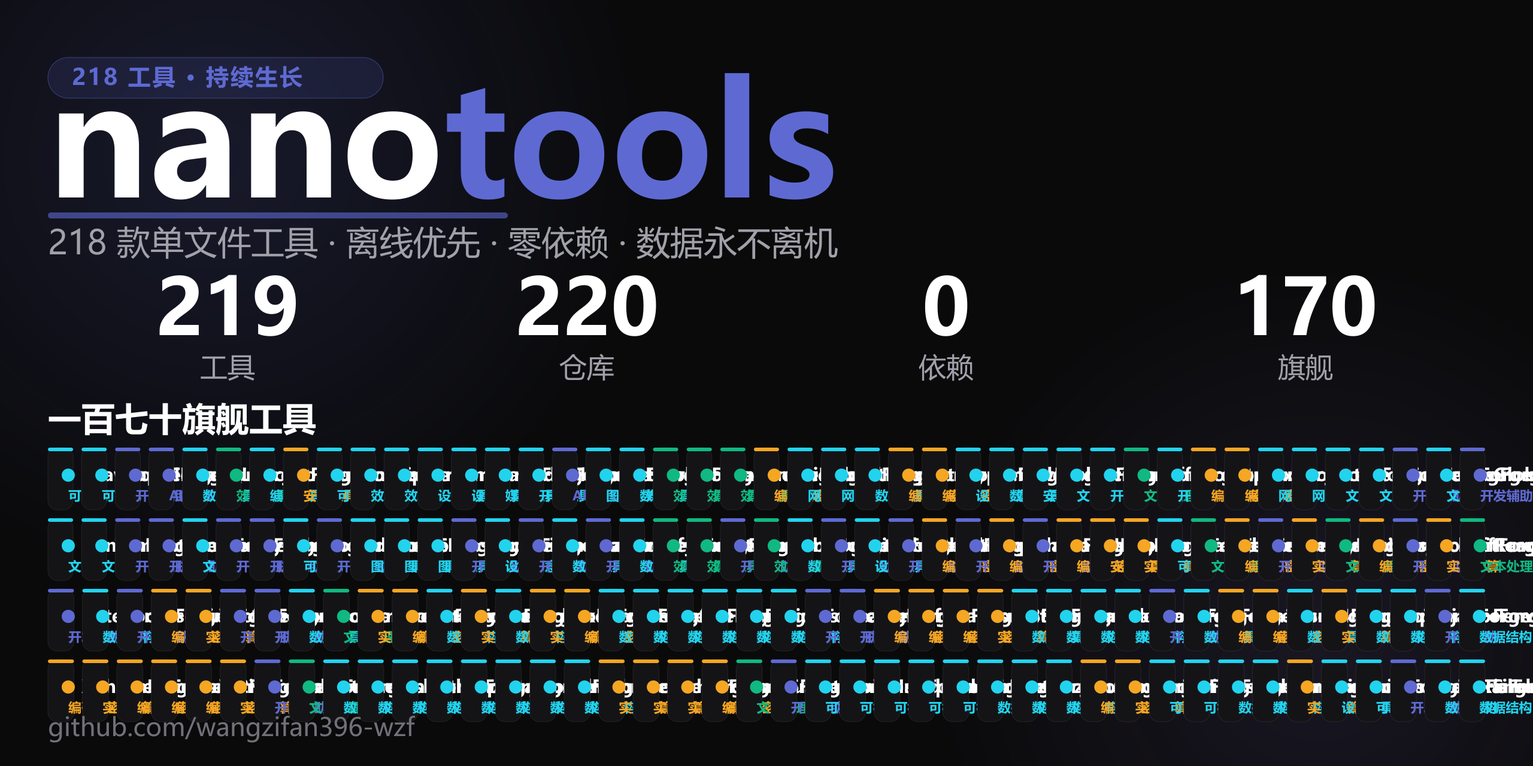
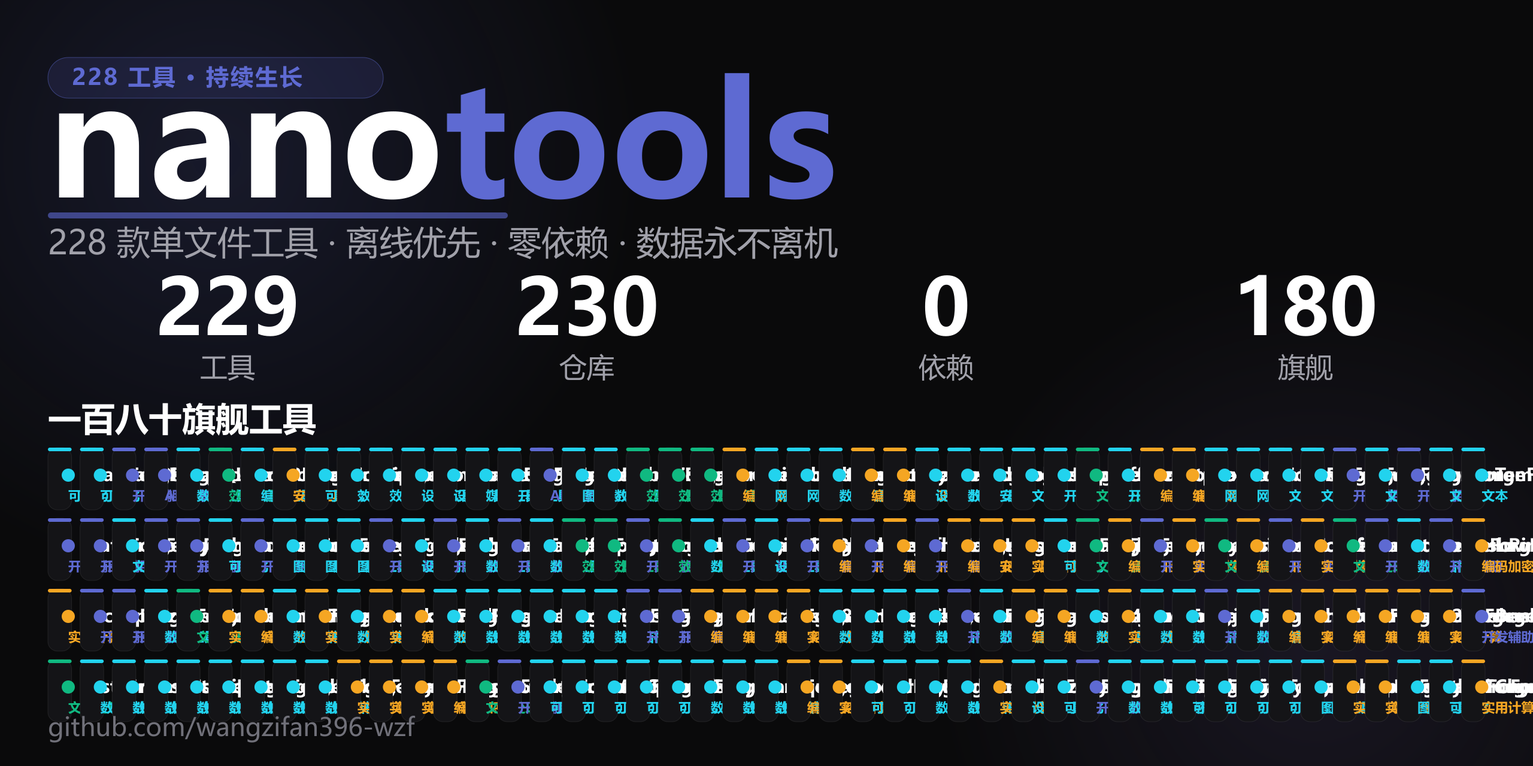
chore: batch35 wiring + promo (228 tools / 180 flagships)

diff --git a/index.html b/index.html
@@ -5,9 +5,9 @@
 <meta charset="UTF-8">
 <meta name="viewport" content="width=device-width, initial-scale=1.0">
 <title data-i18n="meta_title">nano-tools · 单文件零依赖工具集</title>
-<meta name="description" data-i18n="meta_desc" content="一个标签页，收纳你全部的开发者工具。218 个单文件、零依赖、本地优先的开源工具，下载即用，数据永不离机。">
+<meta name="description" data-i18n="meta_desc" content="一个标签页，收纳你全部的开发者工具。228 个单文件、零依赖、本地优先的开源工具，下载即用，数据永不离机。">
 <meta property="og:title" data-i18n="og_title" content="nano-tools · 单文件零依赖工具集">
-<meta property="og:description" data-i18n="og_desc" content="218 个单文件、零依赖、本地优先的开发者工具，下载即用，数据永不离机。">
+<meta property="og:description" data-i18n="og_desc" content="228 个单文件、零依赖、本地优先的开发者工具，下载即用，数据永不离机。">
 <meta property="og:image" content="social-preview.png">
 <meta property="og:image:width" content="1280">
 <meta property="og:image:height" content="640">
@@ -278,7 +278,7 @@
     <div class="hero-left">
       <span class="eyebrow"><span class="dot"></span><span data-i18n="hero_eyebrow">开源 · 零依赖 · 单文件</span></span>
       <h1 class="title" data-i18n-html="hero_title">一个标签页，<br>收纳你<span class="hl">全部的开发者工具</span></h1>
-      <p class="subtitle" data-i18n="hero_subtitle">218 个单文件、离线优先的开源工具，覆盖编码、转换、可视化与 AI。下载即用，数据永远留在你的浏览器里。</p>
+      <p class="subtitle" data-i18n="hero_subtitle">228 个单文件、离线优先的开源工具，覆盖编码、转换、可视化与 AI。下载即用，数据永远留在你的浏览器里。</p>
       <div class="hero-cta">
         <a class="btn primary" href="#tools" data-i18n="hero_browse">浏览工具 ↓</a>
         <a class="btn" href="https://github.com/wangzifan396-wzf" target="_blank" rel="noopener" data-i18n="hero_github">在 GitHub 查看</a>
@@ -327,7 +327,7 @@
   <div class="wrap">
     <div class="sec-head reveal">
       <span class="label" data-i18n="tools_label">工具矩阵</span>
-      <h2 class="sec-title" data-i18n="tools_title">218 款精心打磨的开发者工具</h2>
+      <h2 class="sec-title" data-i18n="tools_title">228 款精心打磨的开发者工具</h2>
       <p class="sec-desc" data-i18n="tools_desc">搜索或按分类筛选，点击「在线试用」立即体验，或前往源码仓库查看实现。</p>
     </div>
     <div class="controls reveal">
@@ -385,7 +385,7 @@
 <div class="wrap">
   <div class="cta-band reveal" style="border-color:var(--acc);">
     <span class="pill ok" style="align-self:center;background:rgba(94,106,210,.16);color:#aab2f0;" data-i18n="wb_badge">★ 聚合工作台</span>
-    <h2 data-i18n="wb_title">一个标签页，收纳全部 218 款工具</h2>
+    <h2 data-i18n="wb_title">一个标签页，收纳全部 228 款工具</h2>
     <p data-i18n="wb_desc">nano-workbench：点选即在内嵌窗口运行、标签间即时切换，无需反复打开新页面。数据永不离机。</p>
     <div class="hero-cta">
       <a class="btn primary" href="https://wangzifan396-wzf.github.io/nano-workbench/" target="_blank" rel="noopener" data-i18n="wb_open">打开工作台 ↗</a>
@@ -397,7 +397,7 @@
 <div class="wrap">
   <div class="cta-band reveal">
     <h2 data-i18n="cta_title">把你下一个小工具，交给 nano-tools</h2>
-    <p data-i18n="cta_desc">220 个仓库、218 款工具，全部开源、零依赖、本地优先。</p>
+    <p data-i18n="cta_desc">230 个仓库、228 款工具，全部开源、零依赖、本地优先。</p>
     <div class="hero-cta">
       <a class="btn primary" href="#tools" data-i18n="cta_browse">开始浏览</a>
       <a class="btn" href="https://github.com/wangzifan396-wzf" target="_blank" rel="noopener">★ Star on GitHub</a>
@@ -425,16 +425,16 @@
   // 双语字典（中 / 英）。data-i18n 文本用 textContent；data-i18n-html 保留 <br>/<span> 结构；meta 改 content 属性。
   var I18N = {
     "meta_title":{zh:"nano-tools · 单文件零依赖工具集",en:"nano-tools · single-file, zero-dep tools"},
-    "meta_desc":{zh:"一个标签页，收纳你全部的开发者工具。218 个单文件、零依赖、本地优先的开源工具，下载即用，数据永不离机。",en:"One tab for all your dev tools. 218 single-file, zero-dep, local-first open-source tools. Download and use; data never leaves the browser."},
+    "meta_desc":{zh:"一个标签页，收纳你全部的开发者工具。228 个单文件、零依赖、本地优先的开源工具，下载即用，数据永不离机。",en:"One tab for all your dev tools. 228 single-file, zero-dep, local-first open-source tools. Download and use; data never leaves the browser."},
     "og_title":{zh:"nano-tools · 单文件零依赖工具集",en:"nano-tools · single-file, zero-dep tools"},
-    "og_desc":{zh:"218 个单文件、零依赖、本地优先的开发者工具，下载即用，数据永不离机。",en:"218 single-file, zero-dep, local-first dev tools. Download and use; data never leaves the browser."},
+    "og_desc":{zh:"228 个单文件、零依赖、本地优先的开发者工具，下载即用，数据永不离机。",en:"228 single-file, zero-dep, local-first dev tools. Download and use; data never leaves the browser."},
     "nav_features":{zh:"特性",en:"Features"},
     "nav_tools":{zh:"工具",en:"Tools"},
     "nav_stats":{zh:"数据",en:"Stats"},
     "nav_faq":{zh:"问答",en:"FAQ"},
     "hero_eyebrow":{zh:"开源 · 零依赖 · 单文件",en:"Open-source · Zero-dep · Single-file"},
     "hero_title":{zh:'一个标签页，<br>收纳你<span class="hl">全部的开发者工具</span>',en:'One tab, <br>for <span class="hl">all your dev tools</span>'},
-    "hero_subtitle":{zh:"218 个单文件、离线优先的开源工具，覆盖编码、转换、可视化与 AI。下载即用，数据永远留在你的浏览器里。",en:"218 single-file, offline-first open-source tools spanning encoding, conversion, visualization & AI. Download and use instantly; your data never leaves the browser."},
+    "hero_subtitle":{zh:"228 个单文件、离线优先的开源工具，覆盖编码、转换、可视化与 AI。下载即用，数据永远留在你的浏览器里。",en:"228 single-file, offline-first open-source tools spanning encoding, conversion, visualization & AI. Download and use instantly; your data never leaves the browser."},
     "hero_browse":{zh:"浏览工具 ↓",en:"Browse tools ↓"},
     "hero_github":{zh:"在 GitHub 查看",en:"View on GitHub"},
     "meta_repos":{zh:"开源仓库",en:"Open-source repos"},
@@ -450,16 +450,16 @@
     "step3_t":{zh:"单文件可携",en:"Portable single-file"},
     "step3_d":{zh:"每个工具只有一个 HTML 文件，零依赖、可随便复制分享，U 盘里也能跑。",en:"Each tool is one HTML file — zero dependencies, copy & share freely, runs from a USB stick."},
     "tools_label":{zh:"工具矩阵",en:"Tool matrix"},
-    "tools_title":{zh:"218 款精心打磨的开发者工具",en:"218 Hand-crafted Dev Tools"},
+    "tools_title":{zh:"228 款精心打磨的开发者工具",en:"228 Hand-crafted Dev Tools"},
     "tools_desc":{zh:"搜索或按分类筛选，点击「在线试用」立即体验，或前往源码仓库查看实现。",en:"Search or filter by category, hit “Live Demo” to try instantly, or visit the source repo."},
     "search_ph":{zh:"搜索工具… 试试 regex / json / 颜色 / 压缩 / 图表",en:"Search tools… try regex / json / color / compress / chart"},
     "btn_demo":{zh:"在线试用",en:"Live Demo"},
     "btn_src":{zh:"源码",en:"Source"},
     "no_result":{zh:"没有匹配的工具，换个关键词试试 🔍",en:"No matching tools — try another keyword 🔍"},
     "cta_title":{zh:"把你下一个小工具，交给 nano-tools",en:"Your next tiny tool, from nano-tools"},
-    "cta_desc":{zh:"220 个仓库、218 款工具，全部开源、零依赖、本地优先。",en:"220 repos, 218 tools. All open-source, zero-dep, local-first."},
+    "cta_desc":{zh:"230 个仓库、228 款工具，全部开源、零依赖、本地优先。",en:"230 repos, 228 tools. All open-source, zero-dep, local-first."},
     "wb_badge":{zh:"★ 聚合工作台",en:"★ Unified Workbench"},
-    "wb_title":{zh:"一个标签页，收纳全部 218 款工具",en:"All 218 tools in one tab"},
+    "wb_title":{zh:"一个标签页，收纳全部 228 款工具",en:"All 228 tools in one tab"},
     "wb_desc":{zh:"nano-workbench：点选即在内嵌窗口运行、标签间即时切换，无需反复打开新页面。数据永不离机。",en:"nano-workbench: pick a tool and run it in an embedded pane, switch tabs instantly — no more reopening pages. Data never leaves your machine."},
     "wb_open":{zh:"打开工作台 ↗",en:"Open Workbench ↗"},
     "wb_src":{zh:"查看源码",en:"View Source"},
@@ -788,6 +788,36 @@
     {id:"TetrisForge", name:"TetrisForge", icon:"tet", cat:"数据结构", badge:"旗舰",
      desc:"俄罗斯方块：纯逻辑内核（碰撞/旋转/消行）+ Canvas 游戏，方向键操作。",
      tags:["tetris","puzzle","game","canvas","logic"]},
+    {id:"TokenizeForge", name:"TokenizeForge", icon:"tok", cat:"可视化", badge:"旗舰",
+     desc:"BPE 分词可视化：词频统计、相邻对计分、逐轮合并，把文本编码为子词 token。",
+     tags:["bpe","tokenizer","subword","nlp","visualization"]},
+    {id:"BoidsForge", name:"BoidsForge", icon:"boids", cat:"可视化", badge:"旗舰",
+     desc:"Boids 群体模拟：分离/对齐/聚合三力，环面世界，Canvas 实时推演 flocking。",
+     tags:["boids","flocking","simulation","agent","canvas"]},
+    {id:"RaycastForge", name:"RaycastForge", icon:"ray", cat:"可视化", badge:"旗舰",
+     desc:"光线投射：2.5D DDA 射线投射，网格迷宫第一人称投影，方向键漫游。",
+     tags:["raycasting","dda","wolfenstein","3d","maze"]},
+    {id:"PendulumForge", name:"PendulumForge", icon:"pend", cat:"可视化", badge:"旗舰",
+     desc:"双摆混沌：RK4 积分求解，能量漂移检测，初值敏感性演示。",
+     tags:["double-pendulum","chaos","rk4","physics","simulation"]},
+    {id:"QuadtreeForge", name:"QuadtreeForge", icon:"quad", cat:"图像工具", badge:"旗舰",
+     desc:"四叉树图像近似：递归细分逼近细节，叶子统计与实时预览。",
+     tags:["quadtree","image-compression","subdivision","visualization","canvas"]},
+    {id:"TspForge", name:"TspForge", icon:"tsp", cat:"实用计算", badge:"旗舰",
+     desc:"TSP 求解：最近邻播种 + 2-opt 精炼，巡游长度与迭代轨迹。",
+     tags:["tsp","traveling-salesman","2-opt","optimization","graph"]},
+    {id:"KnapsackForge", name:"KnapsackForge", icon:"knap", cat:"实用计算", badge:"旗舰",
+     desc:"0/1 背包：动态规划最优选择，贪心对照，回溯选取物品。",
+     tags:["knapsack","dp","dynamic-programming","optimization","greedy"]},
+    {id:"DitherForge", name:"DitherForge", icon:"dith", cat:"图像工具", badge:"旗舰",
+     desc:"图像抖动：有序 Bayer 与 Floyd-Steinberg 误差扩散，1-bit 输出。",
+     tags:["dithering","bayer","floyd-steinberg","image","halftone"]},
+    {id:"SpiroForge", name:"SpiroForge", icon:"spiro", cat:"可视化", badge:"旗舰",
+     desc:"万花尺：内/外旋轮线曲线，周期计算与 SVG 导出。",
+     tags:["spirograph","hypotrochoid","epitrochoid","generative","svg"]},
+    {id:"ChordForge", name:"ChordForge", icon:"chord", cat:"实用计算", badge:"旗舰",
+     desc:"和弦与音阶：和弦识别、音阶构建、音名解析与异名同音归一。",
+     tags:["chord","scale","music-theory","notes","midi"]},
     {id:"SnakeForge", name:"SnakeForge", icon:"snk", cat:"数据结构", badge:"旗舰",
      desc:"贪吃蛇：纯逻辑内核（移动/进食/墙撞/自撞）+ Canvas 游戏，方向键操作。",
      tags:["snake","game","canvas","logic","puzzle"]},
@@ -1342,6 +1372,16 @@
     JsonGraphForge:{desc:"JSON graph: render JSON structure as node-link tree, see nesting and key relations.", cat:"Visual"},
     RegexRailForge:{desc:"Regex railroad: parse a regex into a railroad diagram, see concat/alternation/quantifier.", cat:"Dev"},
     TetrisForge:{desc:"Tetris: pure logic core (collision/rotation/line-clear) + Canvas game, arrow keys.", cat:"DataStruct"},
+    TokenizeForge:{desc:"BPE tokenizer: word frequency, adjacent-pair scoring, iterative merges, encode text to subword tokens.", cat:"Visual"},
+    BoidsForge:{desc:"Boids flocking: separation/alignment/cohesion, toroidal world, live canvas simulation.", cat:"Visual"},
+    RaycastForge:{desc:"Raycasting: 2.5D DDA ray caster, walk a grid maze with first-person walls.", cat:"Visual"},
+    PendulumForge:{desc:"Double pendulum: RK4 chaotic integration, energy-drift check, sensitive dependence.", cat:"Visual"},
+    QuadtreeForge:{desc:"Quadtree image: recursive subdivision to approximate detail, leaf stats + preview.", cat:"Visual"},
+    TspForge:{desc:"TSP solver: nearest-neighbor seed plus 2-opt refinement, tour length + trace.", cat:"Utility"},
+    KnapsackForge:{desc:"0/1 knapsack: DP optimal selection, greedy comparison, backtrack picks.", cat:"Utility"},
+    DitherForge:{desc:"Image dithering: ordered Bayer + Floyd-Steinberg error diffusion, 1-bit output.", cat:"Visual"},
+    SpiroForge:{desc:"Spirograph: hypotrochoid/epitrochoid curves, period + SVG export.", cat:"Visual"},
+    ChordForge:{desc:"Chord & scale: detect chords, build scales, note-name parsing + enharmonic.", cat:"Utility"},
     SnakeForge:{desc:"Snake: pure logic core (move/eat/wall/self-collision) + Canvas game, arrow keys.", cat:"DataStruct"},
     FractalForge:{desc:"Fractal generator: Mandelbrot grid / Koch curve / Sierpinski triangle.", cat:"Utility"},
     StateForge:{desc:"Finite state machine: definition/event simulation/reachability/dead-state detection.", cat:"Dev"},
@@ -1566,6 +1606,16 @@
     jg:'<circle cx="6" cy="6" r="2"/><circle cx="18" cy="10" r="2"/><circle cx="10" cy="18" r="2"/><path d="M7.5 7L16 10M7 8L9 16"/>',
     rr:'<path d="M3 12h18"/><path d="M3 8v8M21 8v8"/><rect x="8" y="9" width="8" height="6" rx="1"/>',
     tet:'<path d="M6 4h4v4h-4zM10 4h4v4h-4zM10 8h4v4h-4zM14 8h4v4h-4z"/>',
+    tok:'<rect x="3" y="8" width="4" height="8" rx="1"/><rect x="9" y="8" width="4" height="8" rx="1"/><rect x="15" y="8" width="4" height="8" rx="1"/><path d="M7 12h2M13 12h2"/>',
+    boids:'<path d="M3 14c3-3 5-3 8 0M13 10c3-3 5-3 8 0"/><circle cx="7" cy="14" r="1"/>',
+    ray:'<circle cx="5" cy="12" r="2"/><path d="M7 12h12M9 9l8-5M9 15l8 5"/>',
+    pend:'<circle cx="12" cy="5" r="2"/><path d="M12 7v5"/><circle cx="9" cy="15" r="2"/><path d="M12 12l-3 3"/>',
+    quad:'<rect x="4" y="4" width="16" height="16" rx="1"/><path d="M12 4v16M4 12h16M8 8h8M8 16h8"/>',
+    tsp:'<circle cx="5" cy="6" r="1.5"/><circle cx="18" cy="5" r="1.5"/><circle cx="9" cy="18" r="1.5"/><circle cx="19" cy="17" r="1.5"/><path d="M6 7l12-1M16 6l-7 11M9 18l9-2"/>',
+    knap:'<path d="M6 8h12l-1 12H7z"/><path d="M9 8V6a3 3 0 0 1 6 0v2"/>',
+    dith:'<rect x="4" y="4" width="6" height="6"/><rect x="14" y="4" width="6" height="6"/><rect x="9" y="9" width="6" height="6"/><rect x="4" y="14" width="6" height="6"/><rect x="14" y="14" width="6" height="6"/>',
+    spiro:'<path d="M12 12a3 3 0 1 1 3 3 5 5 0 1 1-7-3 7 7 0 1 1 10 2"/>',
+    chord:'<path d="M5 20V8l7-4 7 4v12"/><path d="M9 20v-6M15 20v-6M12 20v-9"/>',
     snk:'<path d="M4 12h6M10 12v-4h4M14 8v8h-4M10 16h4"/><circle cx="18" cy="16" r="1.5"/>',
     frl:'<path d="M12 4L20 18H4z"/><path d="M12 4L16 12H8z"/><path d="M8 12h8"/>',
     fsm:'<circle cx="6" cy="6" r="2.5"/><circle cx="18" cy="6" r="2.5"/><circle cx="12" cy="18" r="2.5"/><path d="M8.5 6h7M16.5 8l-3 7.5M7.5 8l3 7.5"/>',
@@ -1599,7 +1649,7 @@
   var $ = function(s,el){return (el||document).querySelector(s);};
   var state = {q:"", cat:"全部", flag:false, fav:false};
   var LANG = (function(){ try{return localStorage.getItem("nano-lang")||"zh";}catch(e){return "zh";} })();
-  var FLAG_IDS = {"DrawForge":1,"GraphForge":1,"APIForge":1,"ChatForge":1,"SQLForge":1,"DeckForge":1,"QRForge":1,"VaultForge":1,"MindForge":1,"SnipForge":1,"PlanForge":1,"FontForge":1,"ImageForge":1,"AudioForge":1,"A11yForge":1,"PromptForge":1,"PDFForge":1,"TableForge":1,"CVForge":1,"KanbanForge":1,"InvoiceForge":1,"UuidForge":1,"SubnetForge":1,"UrlForge":1,"YamlForge":1,"AuthForge":1,"CryptoForge":1,"BarcodeForge":1,"CsvForge":1,"CipherForge":1,"AsciiForge":1,"TypeForge":1,"DiffForge":1,"ShotForge":1,"TotpForge":1,"HexForge":1,"BookForge":1,"StatusForge":1,"EmojiForge":1,"WordForge":1,"StructForge":1,"SlugForge":1,"GlobForge":1,"RomanForge":1,"TempForge":1,"MathForge":1,"MimeForge":1,"MorseForge":1,"KeyForge":1,"LuhnForge":1,"DiagramForge":1,"CodeForge":1,"PixelForge":1,"GIFForge":1,"MeshForge":1,"RegexForge":1,"WhiteboardForge":1,"SchemaForge":1,"ChartForge":1,"BeautifyForge":1,"SheetForge":1,"TypingForge":1,"DateForge":1,"SemverForge":1,"HabitForge":1,"JsonPathForge":1,"NginxForge":1,"ColorBlindForge":1,"CronForge":1,"JwtForge":1,"SnowflakeForge":1,"PunyForge":1,"ChangelogForge":1,"ULIDForge":1,"PasswordForge":1,"NumeralForge":1,"SparkForge":1,"FigletForge":1,"HtmlEntityForge":1,"UtmForge":1,"InterestForge":1,"MailForge":1,"HashForge":1,"BackoffForge":1,"UnitForge":1,"ReadForge":1,"RateForge":1,"BloomForge":1,"HashRingForge":1,"LzwForge":1,"VectorForge":1,"TopoForge":1,"FuzzyForge":1,"PivotForge":1,"MarkdownForge":1,"PercentileForge":1,"HmacForge":1,"MerkleForge":1,"GeoForge":1,"CuckooForge":1,"TokenForge":1,"SecretForge":1,"HllForge":1,"SketchForge":1,"TrieForge":1,"LruForge":1,"UnionForge":1,"BitsetForge":1,"BreakerForge":1,"ArgForge":1,"HuffmanForge":1,"CrcForge":1,"Base58Forge":1,"MatrixForge":1,"TomlForge":1,"HeapForge":1,"DijkstraForge":1,"AhoForge":1,"QsForge":1,"IniForge":1,"Sha3Forge":1,"Base64Forge":1,"MsgpackForge":1,"PrngForge":1,"KmpForge":1,"TarjanForge":1,"ExprForge":1,"FenwickForge":1,"XxhashForge":1,"LinearForge":1,"MurmurForge":1,"Base32Forge":1,"VarintForge":1,"GeohashForge":1,"BenchForge":1,"DistForge":1,"MinhashForge":1,"SimhashForge":1,"BktreeForge":1,"SkipForge":1,"AstarForge":1,"SegmentForge":1,"AvlForge":1,"RabinForge":1,"IntervalForge":1,"CombForge":1,"EloForge":1,"Base85Forge":1,"SoundexForge":1,"StateForge":1,"MindMapForge":1,"WordCloudForge":1,"SequenceForge":1,"GanttForge":1,"LifeForge":1,"SortForge":1,"MazeForge":1,"NqueenForge":1,"StegForge":1,"FractalForge":1,"TuringForge":1,"LsystemForge":1,"SudokuForge":1,"GomokuForge":1,"NoiseForge":1,"BezierForge":1,"JsonGraphForge":1,"RegexRailForge":1,"TetrisForge":1,"SnakeForge":1};
+  var FLAG_IDS = {"DrawForge":1,"GraphForge":1,"APIForge":1,"ChatForge":1,"SQLForge":1,"DeckForge":1,"QRForge":1,"VaultForge":1,"MindForge":1,"SnipForge":1,"PlanForge":1,"FontForge":1,"ImageForge":1,"AudioForge":1,"A11yForge":1,"PromptForge":1,"PDFForge":1,"TableForge":1,"CVForge":1,"KanbanForge":1,"InvoiceForge":1,"UuidForge":1,"SubnetForge":1,"UrlForge":1,"YamlForge":1,"AuthForge":1,"CryptoForge":1,"BarcodeForge":1,"CsvForge":1,"CipherForge":1,"AsciiForge":1,"TypeForge":1,"DiffForge":1,"ShotForge":1,"TotpForge":1,"HexForge":1,"BookForge":1,"StatusForge":1,"EmojiForge":1,"WordForge":1,"StructForge":1,"SlugForge":1,"GlobForge":1,"RomanForge":1,"TempForge":1,"MathForge":1,"MimeForge":1,"MorseForge":1,"KeyForge":1,"LuhnForge":1,"DiagramForge":1,"CodeForge":1,"PixelForge":1,"GIFForge":1,"MeshForge":1,"RegexForge":1,"WhiteboardForge":1,"SchemaForge":1,"ChartForge":1,"BeautifyForge":1,"SheetForge":1,"TypingForge":1,"DateForge":1,"SemverForge":1,"HabitForge":1,"JsonPathForge":1,"NginxForge":1,"ColorBlindForge":1,"CronForge":1,"JwtForge":1,"SnowflakeForge":1,"PunyForge":1,"ChangelogForge":1,"ULIDForge":1,"PasswordForge":1,"NumeralForge":1,"SparkForge":1,"FigletForge":1,"HtmlEntityForge":1,"UtmForge":1,"InterestForge":1,"MailForge":1,"HashForge":1,"BackoffForge":1,"UnitForge":1,"ReadForge":1,"RateForge":1,"BloomForge":1,"HashRingForge":1,"LzwForge":1,"VectorForge":1,"TopoForge":1,"FuzzyForge":1,"PivotForge":1,"MarkdownForge":1,"PercentileForge":1,"HmacForge":1,"MerkleForge":1,"GeoForge":1,"CuckooForge":1,"TokenForge":1,"SecretForge":1,"HllForge":1,"SketchForge":1,"TrieForge":1,"LruForge":1,"UnionForge":1,"BitsetForge":1,"BreakerForge":1,"ArgForge":1,"HuffmanForge":1,"CrcForge":1,"Base58Forge":1,"MatrixForge":1,"TomlForge":1,"HeapForge":1,"DijkstraForge":1,"AhoForge":1,"QsForge":1,"IniForge":1,"Sha3Forge":1,"Base64Forge":1,"MsgpackForge":1,"PrngForge":1,"KmpForge":1,"TarjanForge":1,"ExprForge":1,"FenwickForge":1,"XxhashForge":1,"LinearForge":1,"MurmurForge":1,"Base32Forge":1,"VarintForge":1,"GeohashForge":1,"BenchForge":1,"DistForge":1,"MinhashForge":1,"SimhashForge":1,"BktreeForge":1,"SkipForge":1,"AstarForge":1,"SegmentForge":1,"AvlForge":1,"RabinForge":1,"IntervalForge":1,"CombForge":1,"EloForge":1,"Base85Forge":1,"SoundexForge":1,"StateForge":1,"MindMapForge":1,"WordCloudForge":1,"SequenceForge":1,"GanttForge":1,"LifeForge":1,"SortForge":1,"MazeForge":1,"NqueenForge":1,"StegForge":1,"FractalForge":1,"TuringForge":1,"LsystemForge":1,"SudokuForge":1,"GomokuForge":1,"NoiseForge":1,"BezierForge":1,"JsonGraphForge":1,"RegexRailForge":1,"TetrisForge":1,"SnakeForge":1,"TokenizeForge":1,"BoidsForge":1,"RaycastForge":1,"PendulumForge":1,"QuadtreeForge":1,"TspForge":1,"KnapsackForge":1,"DitherForge":1,"SpiroForge":1,"ChordForge":1};
   var FAV_KEY = "nano-favs";
   function getFavs(){ try{return JSON.parse(localStorage.getItem(FAV_KEY)||"[]");}catch(e){return [];} }
   function setFav(id,on){ var s=getFavs(); var i=s.indexOf(id); if(on&&i<0)s.push(id); if(!on&&i>=0)s.splice(i,1); try{localStorage.setItem(FAV_KEY,JSON.stringify(s));}catch(e){} }

diff --git a/README.md b/README.md
@@ -3,7 +3,7 @@
   <img src="https://img.shields.io/github/forks/wangzifan396-wzf/WB?style=flat-square" alt="Forks">
   <img src="https://img.shields.io/github/issues/wangzifan396-wzf/WB?style=flat-square" alt="Issues">
   <img src="https://img.shields.io/github/last-commit/wangzifan396-wzf/WB?style=flat-square" alt="Last Commit">
-  <img src="https://img.shields.io/badge/tools-218-5E6AD2?style=flat-square" alt="218 Tools">
+  <img src="https://img.shields.io/badge/tools-228-5E6AD2?style=flat-square" alt="228 Tools">
   <img src="https://img.shields.io/badge/dependencies-zero-2EA043?style=flat-square" alt="Zero Dep">
   <img src="https://img.shields.io/github/license/wangzifan396-wzf/WB?style=flat-square" alt="License">
 </p>
@@ -16,7 +16,7 @@
 
 # nano-tools · 单文件工具集门户
 
-**218 款单文件、零依赖、本地优先的开发者工具**的总入口（220 个仓库 · 170 款旗舰 ⭐）。每个工具都是一个 `index.html`——无需安装、无需构建、无需联网，下载即用，数据永远留在你的浏览器里。
+**228 款单文件、零依赖、本地优先的开发者工具**的总入口（230 个仓库 · 180 款旗舰 ⭐）。每个工具都是一个 `index.html`——无需安装、无需构建、无需联网，下载即用，数据永远留在你的浏览器里。
 
 ## 为什么是 nano-tools
 
@@ -25,7 +25,7 @@
 - **本地优先**：所有计算在你的浏览器内完成，数据永不上传。
 - **独立仓库**：每个工具一个仓库，可单独 fork / star / 魔改，互不牵连。
 
-## 🧰 工具矩阵（218 款 · ⭐ = 旗舰）
+## 🧰 工具矩阵（228 款 · ⭐ = 旗舰）
 
 | 工具 | 分类 | 简介 |
 |------|------|------|
@@ -129,6 +129,16 @@
 | [JsonGraphForge](https://wangzifan396-wzf.github.io/JsonGraphForge/) ⭐ | 可视化 | JSON 图谱：把 JSON 结构渲染为节点-连线树图，直观看清嵌套与键关系。 |
 | [RegexRailForge](https://wangzifan396-wzf.github.io/RegexRailForge/) ⭐ | 开发辅助 | 正则铁路图：把正则解析为铁路图，直观看到拼接/选择/量词的语法结构。 |
 | [TetrisForge](https://wangzifan396-wzf.github.io/TetrisForge/) ⭐ | 数据结构 | 俄罗斯方块：纯逻辑内核（碰撞/旋转/消行）+ Canvas 游戏，方向键操作。 |
+| [TokenizeForge](https://wangzifan396-wzf.github.io/TokenizeForge/) ⭐ | 可视化 | BPE 分词可视化：词频统计、相邻对计分、逐轮合并，把文本编码为子词 token。 |
+| [BoidsForge](https://wangzifan396-wzf.github.io/BoidsForge/) ⭐ | 可视化 | Boids 群体模拟：分离/对齐/聚合三力，环面世界，Canvas 实时推演 flocking。 |
+| [RaycastForge](https://wangzifan396-wzf.github.io/RaycastForge/) ⭐ | 可视化 | 光线投射：2.5D DDA 射线投射，网格迷宫第一人称投影，方向键漫游。 |
+| [PendulumForge](https://wangzifan396-wzf.github.io/PendulumForge/) ⭐ | 可视化 | 双摆混沌：RK4 积分求解，能量漂移检测，初值敏感性演示。 |
+| [QuadtreeForge](https://wangzifan396-wzf.github.io/QuadtreeForge/) ⭐ | 图像工具 | 四叉树图像近似：递归细分逼近细节，叶子统计与实时预览。 |
+| [TspForge](https://wangzifan396-wzf.github.io/TspForge/) ⭐ | 实用计算 | TSP 求解：最近邻播种 + 2-opt 精炼，巡游长度与迭代轨迹。 |
+| [KnapsackForge](https://wangzifan396-wzf.github.io/KnapsackForge/) ⭐ | 实用计算 | 0/1 背包：动态规划最优选择，贪心对照，回溯选取物品。 |
+| [DitherForge](https://wangzifan396-wzf.github.io/DitherForge/) ⭐ | 图像工具 | 图像抖动：有序 Bayer 与 Floyd-Steinberg 误差扩散，1-bit 输出。 |
+| [SpiroForge](https://wangzifan396-wzf.github.io/SpiroForge/) ⭐ | 可视化 | 万花尺：内/外旋轮线曲线，周期计算与 SVG 导出。 |
+| [ChordForge](https://wangzifan396-wzf.github.io/ChordForge/) ⭐ | 实用计算 | 和弦与音阶：和弦识别、音阶构建、音名解析与异名同音归一。 |
 | [SnakeForge](https://wangzifan396-wzf.github.io/SnakeForge/) ⭐ | 数据结构 | 贪吃蛇：纯逻辑内核（移动/进食/墙撞/自撞）+ Canvas 游戏，方向键操作。 |
 | [FractalForge](https://wangzifan396-wzf.github.io/FractalForge/) ⭐ | 实用计算 | 分形生成：Mandelbrot 点阵 / Koch 曲线 / Sierpinski 三角。 |
 | [StateForge](https://wangzifan396-wzf.github.io/StateForge/) ⭐ | 开发辅助 | 有限状态机：定义/事件推演/可达性/死状态检测。 |
@@ -258,7 +268,7 @@
 ## 质量保障
 
 - 每个工具都带 `_test.js`（纯函数断言）+ `smoke.js`（jsdom 冒烟），CI 全绿。
-- 全矩阵回归：`run_matrix_tests.py` 一键跑 218 工具测试。
+- 全矩阵回归：`run_matrix_tests.py` 一键跑 228 工具测试。
 
 ## License
 
